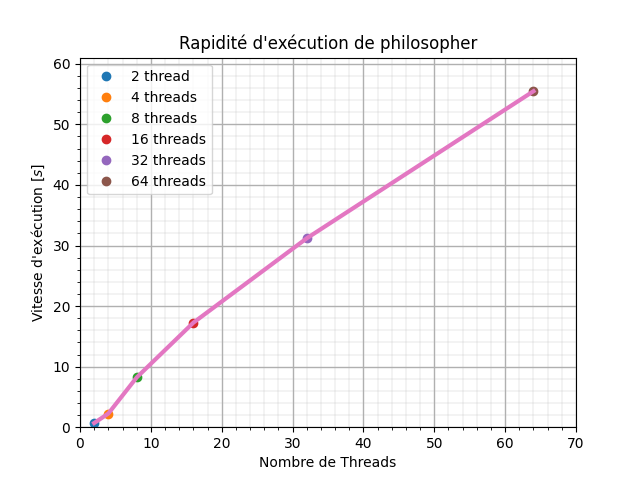
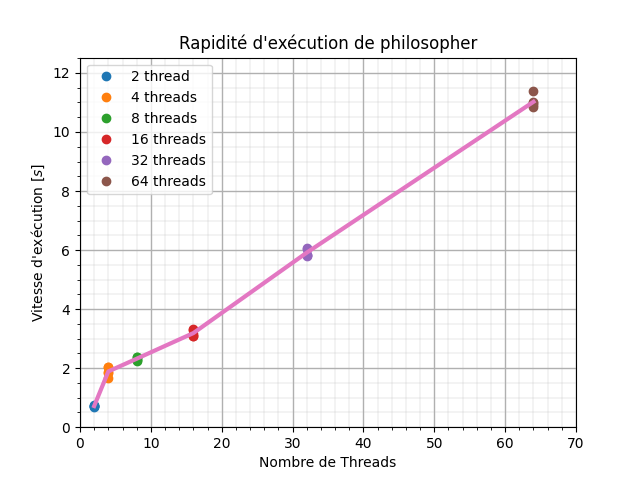
Solved issue in Philosopher + new plot

diff --git a/Inginious/P1/src/philosopher.c b/Inginious/P1/src/philosopher.c
@@ -9,19 +9,13 @@ pthread_mutex_t* baguette;
 
 // Helper Function
 
-
+int N;
 
 void* philosophe ( void* arg ){
-    printf("%d\n", *((int*) arg));
     int *id=(int *) arg;
     int left = *id;
-
-    int right = 0;
-    if(*id == 0){
-        right = 1;
-    }else{
-        right = (left + 1) % *id; //PHILOSOPHES
-    }
+    int right = (left + 1) % N; //PHILOSOPHES
+    
     int i = 0;
     while(i<10000000) {
         // philosophe pense
@@ -32,6 +26,7 @@ void* philosophe ( void* arg ){
             pthread_mutex_lock(&baguette[right]);
             pthread_mutex_lock(&baguette[left]);
         }
+        // Il mange
         pthread_mutex_unlock(&baguette[left]);
         pthread_mutex_unlock(&baguette[right]);
         i++;
@@ -87,7 +82,7 @@ int main(int argc, char** argv){
         printf("Please provide the amount of philosopher you want\n");
         return EXIT_FAILURE;
     }
-
+    N = (int)  atoi(argv[1]);
     philosopher((int)  atoi(argv[1]));
     return EXIT_SUCCESS;
 }
